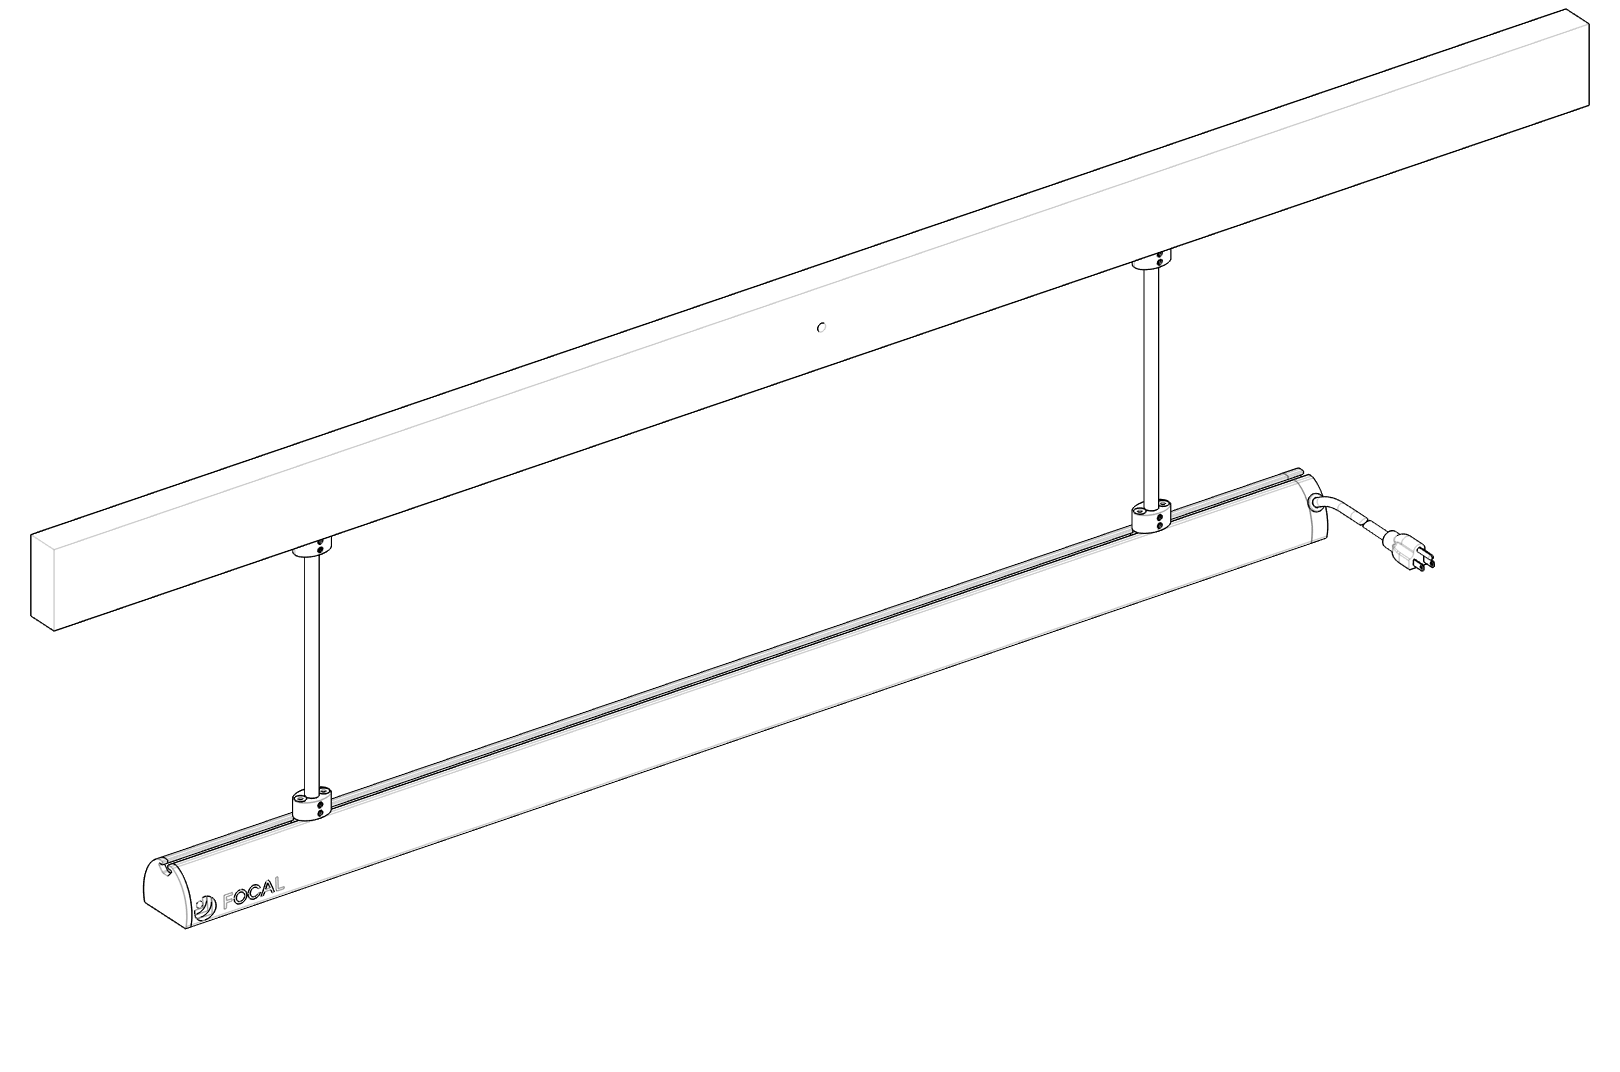
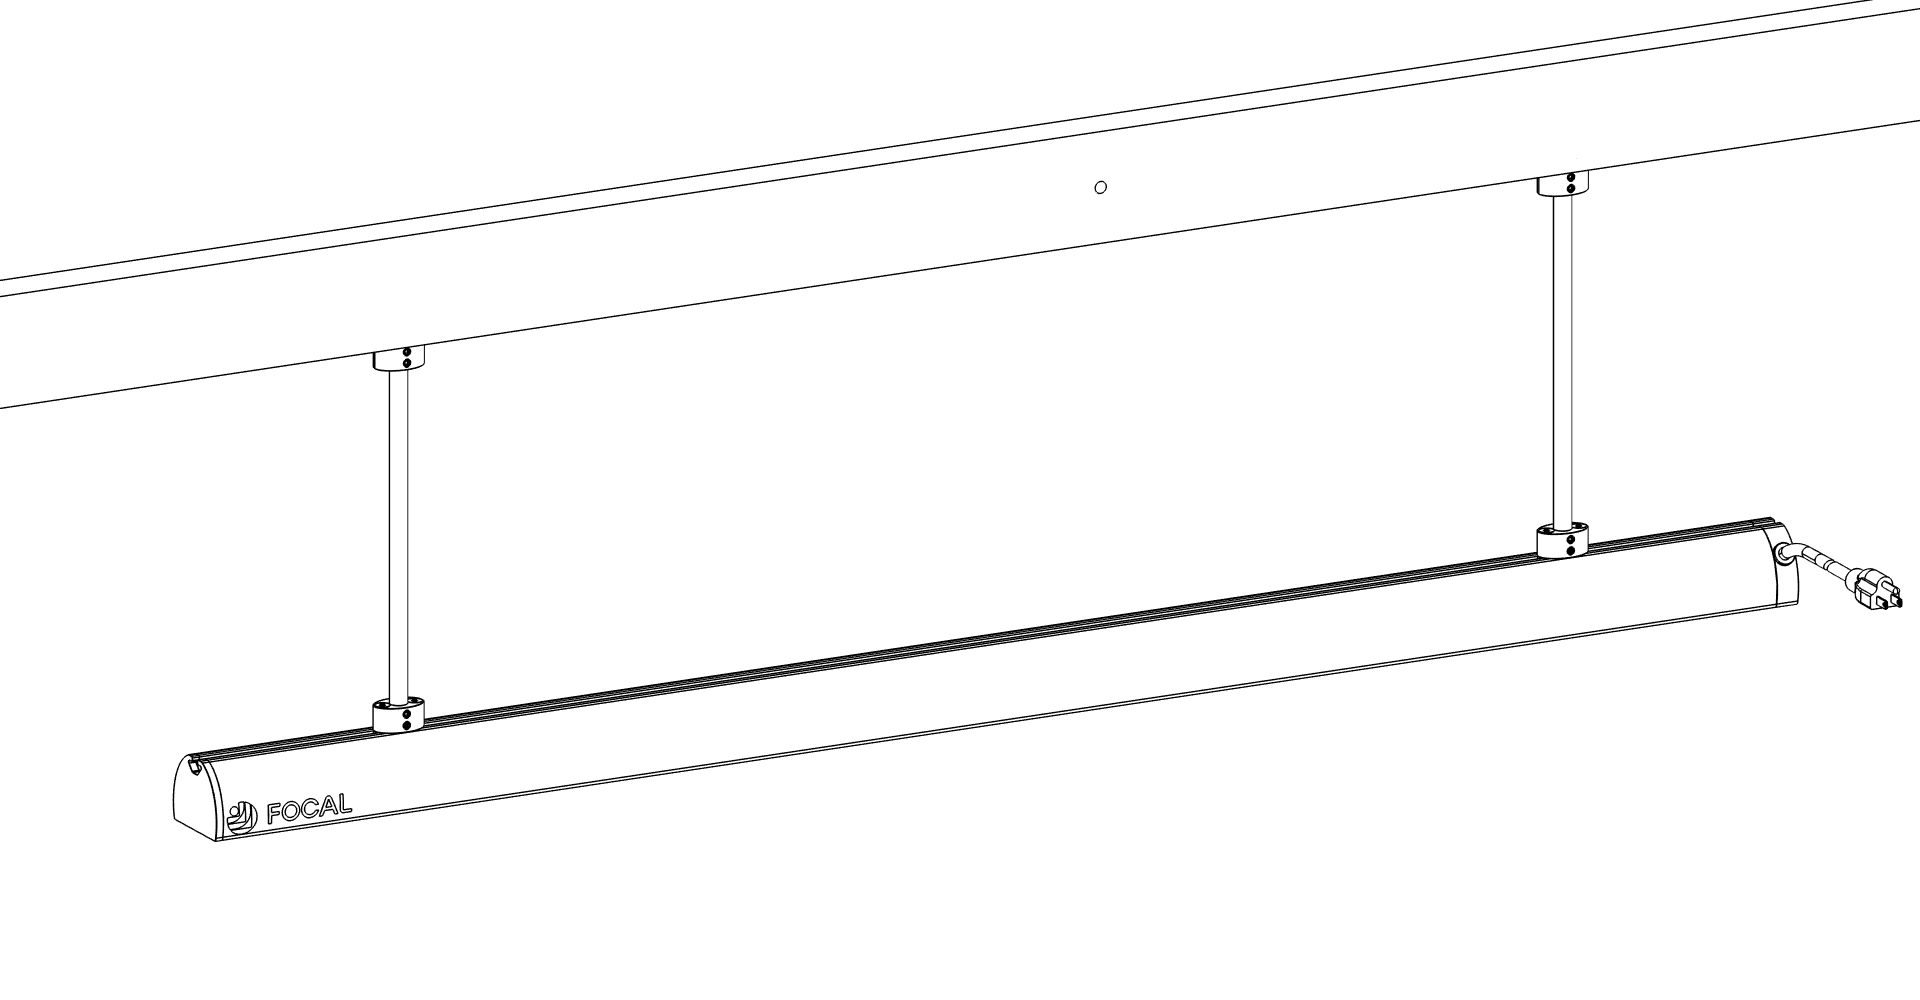
Replace Duo install diagrams with photo-based PNGs and update steps
- Swap the placeholder SVG diagrams for numbered, orange-highlighted PNGs
  and rewrite the install-heaters steps to match: find the open end, 2 mm
  hex wrench, remove bumper and spacers, orient by pull string and lug,
  confirm the lug is down, then slide on and lock in place.
- Add a parts overview diagram and note that heaters draw power from the
  rail, so no separate cable is needed.
- Extend orange-highlight.py with sil: (silhouette fill, optionally in a
  polygon) and ink: (solid orange line work) part types, and fix floodfill
  under Pillow 12 by copying the fromarray image.
- Refresh the rail-03 diagrams.
- Bump install-heaters guide to version 1.5 (2026-10-15).

diff --git a/_tools/orange-highlight.py b/_tools/orange-highlight.py
@@ -14,6 +14,16 @@ Each PART is one of:
                         Best for round parts (screw heads, holes) at any tilt,
                         and it doesn't care about gaps in inner rings. Keep
                         other parts' lines out of the box.
+    sil:x0,y0,x1,y1     fill the silhouette of a free-standing part inside
+                        this box: everything the white margin around it can't
+                        reach. Best for parts busy with inner lines or
+                        shading (end cap, spacer). Leave white all round the
+                        part and keep other parts out of the box.
+    sil:x,y,x,y,x,y...  the same inside a polygon (3+ points), to step round
+                        a neighbouring part that pokes into the box.
+    ink:x0,y0,x1,y1     turn the line work inside this box solid orange and
+                        thicken it, for parts that are only a line (the pull
+                        string). Keep the box tight to the line.
     ell:cx,cy,rx,ry     fill an upright ellipse. Last resort, for a head
                         facing the camera whose outline is too faint for hull.
 
@@ -55,13 +65,34 @@ def part_mask(gray, spec):
         cx, cy, rx, ry = v
         ImageDraw.Draw(m).ellipse([cx - rx, cy - ry, cx + rx, cy + ry], fill=255)
         return np.asarray(m)
+    if kind == "sil":
+        poly = list(zip(v[::2], v[1::2])) if len(v) > 4 else None
+        if poly:
+            x0, y0 = min(p[0] for p in poly), min(p[1] for p in poly)
+            x1, y1 = max(p[0] for p in poly), max(p[1] for p in poly)
+        else:
+            x0, y0, x1, y1 = v
+        box = np.where(gray[y0:y1, x0:x1] < LINE, 0, 255).astype("uint8")
+        if poly:
+            keep = Image.new("L", (x1 - x0, y1 - y0), 0)
+            ImageDraw.Draw(keep).polygon([(x - x0, y - y0) for x, y in poly], fill=255)
+            box[np.asarray(keep) == 0] = 255  # outside the polygon counts as margin
+        walls = Image.fromarray(box).copy()
+        bw, bh = walls.size
+        for x, y in [(x, 0) for x in range(bw)] + [(x, bh - 1) for x in range(bw)] + [(0, y) for y in range(bh)] + [(bw - 1, y) for y in range(bh)]:
+            if walls.getpixel((x, y)) == 255:
+                ImageDraw.floodfill(walls, (x, y), 128, thresh=0)
+        inside = np.where(np.asarray(walls) == 128, 0, 255).astype("uint8")
+        m = np.zeros((h, w), "uint8")
+        m[y0:y1, x0:x1] = inside
+        return m
     if kind == "hull":
         x0, y0, x1, y1 = v
         ys, xs = np.nonzero(gray[y0:y1, x0:x1] < 130)
         ImageDraw.Draw(m).polygon([(x + x0, y + y0) for x, y in hull(np.c_[xs, ys])], fill=255)
         return np.asarray(m)
     x, y = v
-    walls = Image.fromarray(np.where(gray < LINE, 0, 255).astype("uint8"))
+    walls = Image.fromarray(np.where(gray < LINE, 0, 255).astype("uint8")).copy()  # Pillow 12 floodfill ignores un-copied fromarray images
     if walls.getpixel((x, y)) == 0:
         raise SystemExit(f"point {x},{y} is on a line; pick a spot inside the face")
     ImageDraw.floodfill(walls, (x, y), 128, thresh=0)
@@ -82,12 +113,19 @@ def main():
 
     gray = np.asarray(Image.open(a.src).convert("L")).astype(float)
     mask = np.zeros(gray.shape, "uint8")
+    ink = np.zeros(gray.shape, "uint8")
     for p in a.parts:
-        mask = np.maximum(mask, part_mask(gray, p))
+        if p.startswith("ink:"):
+            x0, y0, x1, y1 = (int(n) for n in p[4:].split(","))
+            ink[y0:y1, x0:x1] = np.where(gray[y0:y1, x0:x1] < LINE, 255, 0)
+        else:
+            mask = np.maximum(mask, part_mask(gray, p))
+    ink = np.asarray(Image.fromarray(ink).filter(ImageFilter.MaxFilter(3))).astype(float)[..., None] / 255
     m = np.asarray(Image.fromarray(mask).filter(ImageFilter.GaussianBlur(0.6))).astype(float)[..., None] / 255
 
     g = np.repeat(gray[..., None], 3, 2)
     out = g * (1 - m) + ORANGE * (g / 255) * m  # white -> orange, lines stay dark
+    out = out * (1 - ink) + ORANGE * ink  # ink: parts drawn as a line turn orange themselves
     img = Image.fromarray(out.clip(0, 255).astype("uint8"))
     if a.crop:
         size, x, y = a.crop.split("+")

diff --git a/_guides/install-heaters.md b/_guides/install-heaters.md
@@ -4,8 +4,8 @@ audience: [installer]
 audience_order: {installer: 50}
 order: 40
 summary: Install heaters onto the rail.
-version: "1.4"
-updated: "2026-09-28"
+version: "1.5"
+updated: "2026-10-15"
 ---
 
 ## On this page
@@ -19,7 +19,9 @@ updated: "2026-09-28"
 
 ## Before you start
 
-The rail should already be mounted, plugged in, and switched on. Heaters slide onto the rail from the end opposite the power cord. Each Focal heater (Duo) has two heating nodes and slides onto the same rail slot the cable powers.
+The rail should already be mounted, plugged in, and switched on. Heaters slide onto the rail from the end opposite the power cord. Each Focal heater (Duo) has two heating nodes and gets its power from the rail when it locks into a slot, so there is no separate cable to connect.
+
+{% include diagram.html src="duo-00-parts.png" caption="The open end of the rail, left to right: end cap, bumper, a heater, a spacer, a second heater and the rail. This rail holds two heaters. A longer rail holds more, with one spacer between each pair." %}
 
 {% include dodont.html do="Handle each heater by its body, keeping the emitters and grille clear." dont="Grab or set the unit down on the grille or reflector." %}
 
@@ -31,28 +33,30 @@ Watch the full video once before you start. Refer to the step-by-step written in
 
 ## Open the rail end
 
-{% include step.html number="1" title="Loosen and move the bumper" body="Loosen the bumper screw and slide the bumper toward the center of the rail to access the two screws beneath." %}
+{% include step.html number="1" title="Find the end that opens" body="Work at the end of the rail opposite the power cord (orange). This is the end that opens." diagram="duo-01-open-end.png" %}
 
-{% include step.html number="2" title="Remove the end cap" body="Remove the end cap screws and take off the end cap to open the end of the rail. Keep one hand on the end cap while removing the screws to ensure it doesn't fall." %}
+{% include step.html number="2" title="Loosen and slide the bumper" body="Loosen the bumper screw with a 2 mm hex wrench (1), then slide the bumper toward the center of the rail to uncover the two end cap screws (2)." diagram="duo-01-bumper-screw.png,duo-01-bumper-slid.png" %}
 
-{% include step.html number="3" title="Remove the spacers" body="Remove the spacers. They will be re-inserted as you install the heaters." %}
+{% include step.html number="3" title="Remove the end cap" body="Remove the two end cap screws with the same 2 mm hex wrench (1), keeping one hand on the end cap so it doesn't fall, then take off the end cap (2)." diagram="duo-02-endcap-screws.png,duo-02-endcap-off.png" %}
+
+{% include step.html number="4" title="Remove the bumper and spacers" body="Slide the bumper and the spacers off the open end of the rail. The spacers go back in between the heaters as you install them, and the bumper goes back on last." diagram="duo-03-remove-parts.png" %}
 
 ## Install each heater
 
-{% include step.html number="1" title="Unbox and orient the heater" body="Take the heater out of its box. It only slides on in one orientation, so line it up before pushing it onto the rail. Remove the rest of the packaging once it's started onto the rail." %}
+{% include step.html number="1" title="Unbox the heater" body="Take the heater out of its box. Leave the rest of the packaging on until the heater is started onto the rail." %}
 
-{% include step.html number="2" title="Slide in until it seats" body="Slide the heater along the rail to its slot and push until it seats."  %}
+{% include step.html number="2" title="Orient the heater" body="Heaters slide on from the open end of the rail, the end without the power cord. The heater only fits one way: hold it with the pull string on the trailing side, away from the rail (1), and the lug on top lined up with the opening in the rail (2)." diagram="duo-04-orient-string.png,duo-04-orient-lug.png" %}
 
-{% include step.html number="3" title="Untie the pull string" body="Each heater ships with its pull string tied off. Untie it. Do this for every heater as you install it." %}
+{% include step.html number="3" title="Confirm the lug is down" body="The lug must be down for the heater to slide onto the rail. A new heater ships with a small plastic clip on top of the riser that holds the lug down. Leave the clip on, because it comes off as the heater slides onto the rail. If there's no clip and the lug is up, pull the pull string down until the lug drops." diagram="duo-05-lug-down.png" %}
 
-{% include step.html number="4" title="Move the heater to the desired slot" body="Pull the pull string down firmly until it releases, then slide the heater to the desired slot, moving any other heaters on the rail as needed to make room. Let go of the string once it's in position and it will lock in place." %}
+{% include step.html number="4" title="Slide on and move to the desired slot" body="Slide the heater onto the open end of the rail (any clip comes off as it goes), then remove the rest of the packaging. Pull the string down firmly to release the heater, slide it to its slot, and let go to lock it in place. Move other heaters as needed to make room." diagram="duo-06-inserted.png" %}
 
-{% include step.html number="5" title="Insert a spacer and repeat" body="Insert a spacer after the heater. Repeat for each heater, adding spacers between heaters. There should be one spacer in between every pair of heaters." %}
+{% include step.html number="5" title="Insert a spacer and repeat" body="Insert a spacer after the heater. Repeat for each heater, adding spacers between heaters. There should be one spacer in between every pair of heaters." diagram="duo-07-spacer.png" %}
 
 ## Close up the rail
 
-{% include step.html number="1" title="Reinstall the end cap and bumper" body="Slide the bumper clear, refit the end cap and its screws, then slide the bumper back over and tighten its screw. Do not overtighten the bumper screw." %}
+{% include step.html number="1" title="Reinstall the bumper and end cap" body="Slide the bumper back onto the rail and push it clear of the end, then refit the end cap and its two screws (1). Slide the bumper back against the end cap and tighten its screw (2). Do not overtighten the bumper screw." diagram="duo-02-endcap-screws.png+duo-01-bumper-screw.png" %}
 
 ## Final checks
 
-{% include checklist.html items="Every heater is seated in a slot and LEDs lit | There is a spacer between each pair of heaters | End cap screwed on and bumper in place" %}
+{% include checklist.html items="Every heater is seated in a slot and LEDs lit | There is a spacer between each pair of heaters | Bumper back on the rail, end cap screwed on, and bumper screw tightened" %}
